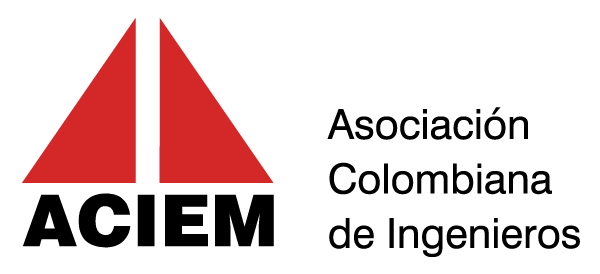
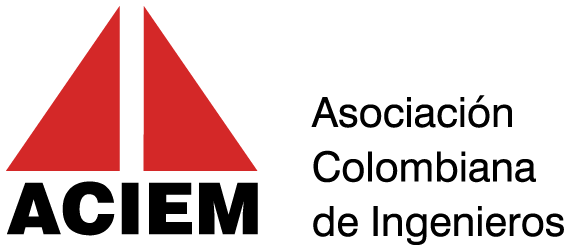
feat(simposio): ACIEM y el Consejo Profesional de Ingenierías como patrocinadores principales
«Aliado principal» pasa a «Patrocinadores principales» con los dos logos, en la
franja bajo el hero y en la sección de aliados. Se agrega la foto de Carlos
Alberto Vega Pacheco.

diff --git a/simposio/templates/simposio/landing.html b/simposio/templates/simposio/landing.html
@@ -137,9 +137,10 @@
             </div>
         </div>
         <div class="sp-logos-group">
-            <h2>Aliado principal</h2>
+            <h2>Patrocinadores principales</h2>
             <div class="sp-logos-row">
                 <img class="sp-logo-main" src="{% static 'images/simposio/aciem.png' %}" alt="ACIEM, Asociación Colombiana de Ingenieros">
+                <img class="sp-logo-main" src="{% static 'images/simposio/consejo-ingenierias.png' %}" alt="Consejo Profesional Nacional de Ingenierías Eléctrica, Mecánica y Profesiones Afines">
             </div>
         </div>
         <div class="sp-logos-group">
@@ -357,9 +358,10 @@
 
         <div class="sp-allies">
             <div class="sp-allybox sp-allybox--main">
-                <h3>Aliado principal</h3>
+                <h3>Patrocinadores principales</h3>
                 <div class="sp-allybox-logos">
                     <img src="{% static 'images/simposio/aciem.png' %}" alt="ACIEM, Asociación Colombiana de Ingenieros">
+                    <img src="{% static 'images/simposio/consejo-ingenierias.png' %}" alt="Consejo Profesional Nacional de Ingenierías Eléctrica, Mecánica y Profesiones Afines">
                 </div>
             </div>
             <div class="sp-allybox">

diff --git a/static/css/simposio.css b/static/css/simposio.css
@@ -280,13 +280,14 @@ body.sp-body {
 .sp-steps span { color: var(--sp-ice); font-size: .98rem; line-height: 1.4; }
 
 /* Allies */
-.sp-allies { display: grid; grid-template-columns: minmax(0, 5fr) minmax(0, 7fr); gap: 1.2rem; }
+.sp-allies { display: grid; grid-template-columns: minmax(0, 1fr) minmax(0, 1fr); gap: 1.2rem; }
 .sp-allybox { background: #fff; border-radius: 24px; padding: 1.6rem 1.8rem 1.8rem; }
 .sp-allybox h3 { margin: 0; font-size: .95rem; font-weight: 500; color: var(--sp-mute); }
 .sp-allybox-logos { display: flex; flex-wrap: wrap; align-items: center; gap: 2.5rem; min-height: 150px; padding-top: 1rem; }
 .sp-allybox--main .sp-allybox-logos { justify-content: center; }
 .sp-allybox img { height: 78px; width: auto; max-width: 100%; }
-.sp-allybox--main img { height: 104px; }
+.sp-allybox--main img { height: 78px; }
+.sp-allybox-logos { gap: 2rem 2.5rem; }
 .sp-allybox img.sp-allybox-tall { height: 104px; }
 .sp-allybox-free { display: grid; place-items: center; height: 78px; padding: 0 1.4rem; border: 1.5px dashed #BFC9D6; border-radius: 999px; font-size: .92rem; color: var(--sp-mute); text-decoration: none; transition: border-color .2s, color .2s; }
 .sp-allybox-free:hover { border-color: var(--sp-navy); color: var(--sp-navy); }

diff --git a/CLAUDE.md b/CLAUDE.md
@@ -1077,7 +1077,7 @@ Landing + inscripción + asistencia con QR + certificado para el simposio nuclea
 - **Landing** (`landing.html`, rediseñada el 2026-11-17): hero con la foto nocturna de Barranquilla dentro de un círculo («núcleo») rodeado por dos órbitas SVG con electrones y un sello giratorio «Entrada gratuita»; debajo, los datos del evento con forma de entrada (`.sp-pass`: fecha en dorado, lugar, modalidad y cuenta regresiva); logos; por qué (texto + «Un punto de encuentro entre» academia/industria/gobierno/sociedad) junto a un panel oscuro «El simposio en cifras» (`agenda_stats`: cupo grande, días, charlas, paneles y botón «Reservar mi cupo») + Caribe; objetivos y público; agenda con selector de día a la izquierda (`agenda_days`, con `weekday`/`day`/`rest`) y cada actividad como línea de tiempo con el **avatar circular de cada ponente**; conferencistas (retratos circulares); sede + «Así participas»; aliados; preguntas; cierre. En celular hay una barra fija inferior de inscripción (`.sp-dock`). Los textos de objetivos, público, aliados, pasos y preguntas están en la plantilla; el resto sale del modelo.
 - **Ponentes y fotos**: salen de la tercera columna de cada línea de la agenda. Charla: `Nombre, Organización`. Panel: `Ana y Luis (Org), Marta (Otra) y Juan (Org, virtual)`. Las charlas de aliados nombran una organización y no generan personas. `Simposio._agenda_people()` arma `item.people` (`name`, `org`, `initials`, `photo`) y `Simposio.speakers` lista a todos una sola vez. **La foto es un archivo estático** en `static/images/simposio/ponentes/<slug-del-nombre>.jpg` (también .jpeg/.png/.webp; `slugify`, p. ej. `dario-cruz.jpg`); sin archivo se muestran las iniciales (`_avatar.html`). Hay un `LEEME.txt` en esa carpeta con los nombres esperados. Foto nueva → `collectstatic`.
 - **Movimiento** (`static/js/simposio.js`, solo en la landing): GSAP 3.15.1 (ScrollTrigger, SplitText, MotionPathPlugin) y Lenis 1.3.27 desde jsDelivr (permitido por la CSP). Todo funciona sin las librerías y se desactiva con `prefers-reduced-motion`. La clase `sp-anim` en `<html>` oculta las piezas del hero hasta que arranca la entrada (se quita sola a los 2,5 s si GSAP no carga). React Bits no se instaló (el proyecto no usa React); el sello de texto circular y el conteo de cifras son versiones propias de esos efectos.
-- Una organización terminada en «, virtual» (p. ej. `Darío Cruz, CEO de Fusenet, virtual`) marca la participación como virtual (`person.virtual`, etiqueta «Virtual»). Una cuarta columna «| Aliado» marca la charla de un aliado que nombra a su ponente (sale con avatar y en Conferencistas). Un tramo tras «;» que empieza por «Modera:» es el moderador (`person.moderator`), p. ej. `…; Modera: Santiago Caicedo (Vicepresidente ejecutivo, AsNC)`. La línea «del Caribe colombiano» del hero y los logos de aliados (ACIEM, INI, Segrad) están en la plantilla.
+- Una organización terminada en «, virtual» (p. ej. `Darío Cruz, CEO de Fusenet, virtual`) marca la participación como virtual (`person.virtual`, etiqueta «Virtual»). Una cuarta columna «| Aliado» marca la charla de un aliado que nombra a su ponente (sale con avatar y en Conferencistas). Un tramo tras «;» que empieza por «Modera:» es el moderador (`person.moderator`), p. ej. `…; Modera: Santiago Caicedo (Vicepresidente ejecutivo, AsNC)`. La línea «del Caribe colombiano» del hero y los logos están en la plantilla: patrocinadores principales ACIEM y el Consejo Profesional Nacional de Ingenierías Eléctrica, Mecánica y Profesiones Afines (`consejo-ingenierias.png`); aliados institucionales INI y Segrad.
 - Migraciones: `0005_dario_cruz_virtual`, `0006_ponentes_cargos` y `0007_daniel_herrera_cargo`, `0008_charla_aliado_viernes`, `0010_ponente_por_confirmar` (nombres completos, cargos y moderador del Panel 1 en la agenda), `0003_portada` (campos de portada) y `0004_contenido_2026` (carga título, fechas 3 y 4 de diciembre de 2026, sede y la agenda tentativa v4 en la edición sembrada, solo si nadie la editó).
 - La carpeta `simposio/` contiene además material de referencia del evento (brochures PDF, `img/`, `simposio.html`…) que **no es código** de la app.
 - Pruebas: `simposio/tests.py` (39). Un ponente «Por confirmar» se muestra como texto, sin avatar ni ficha en Conferencistas.
